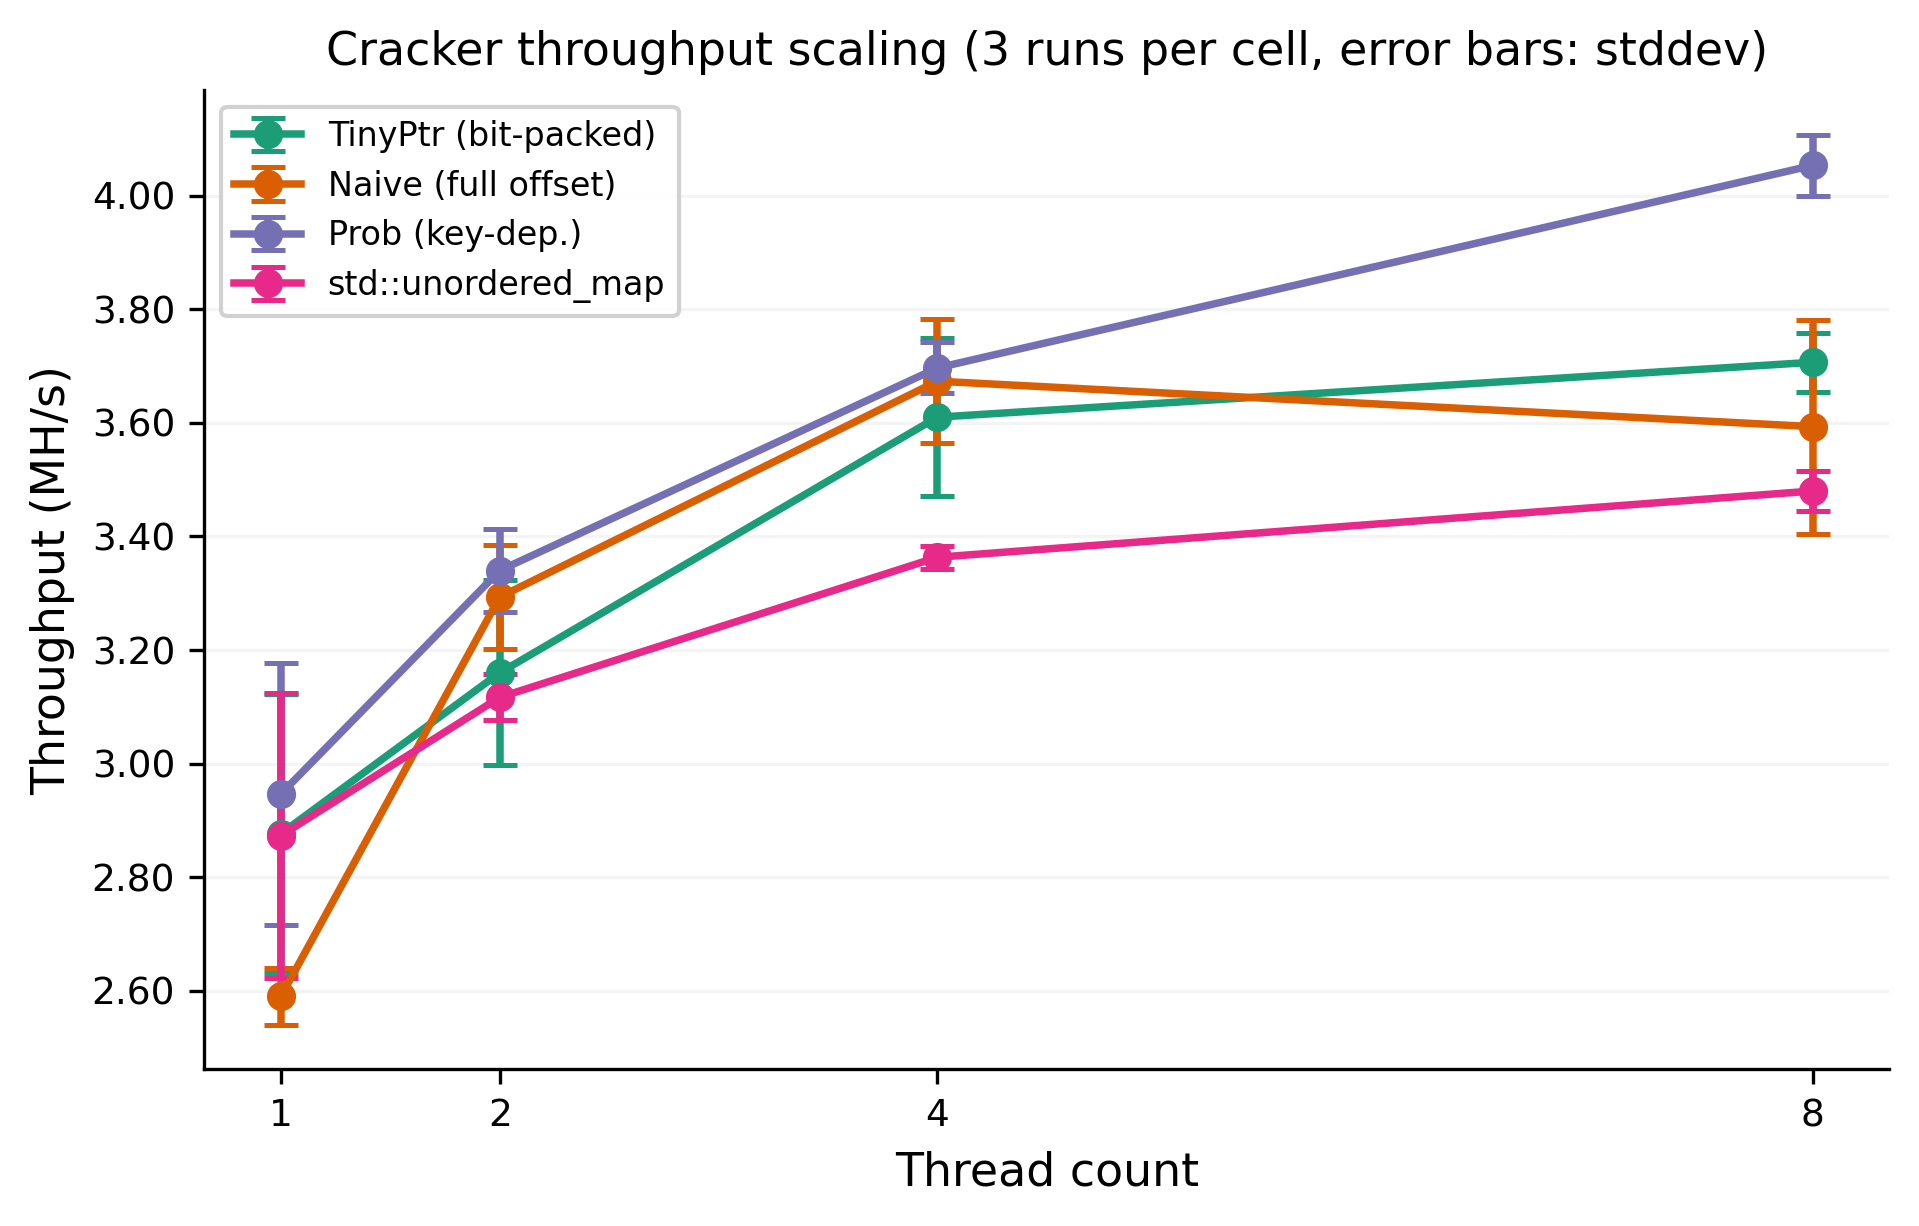
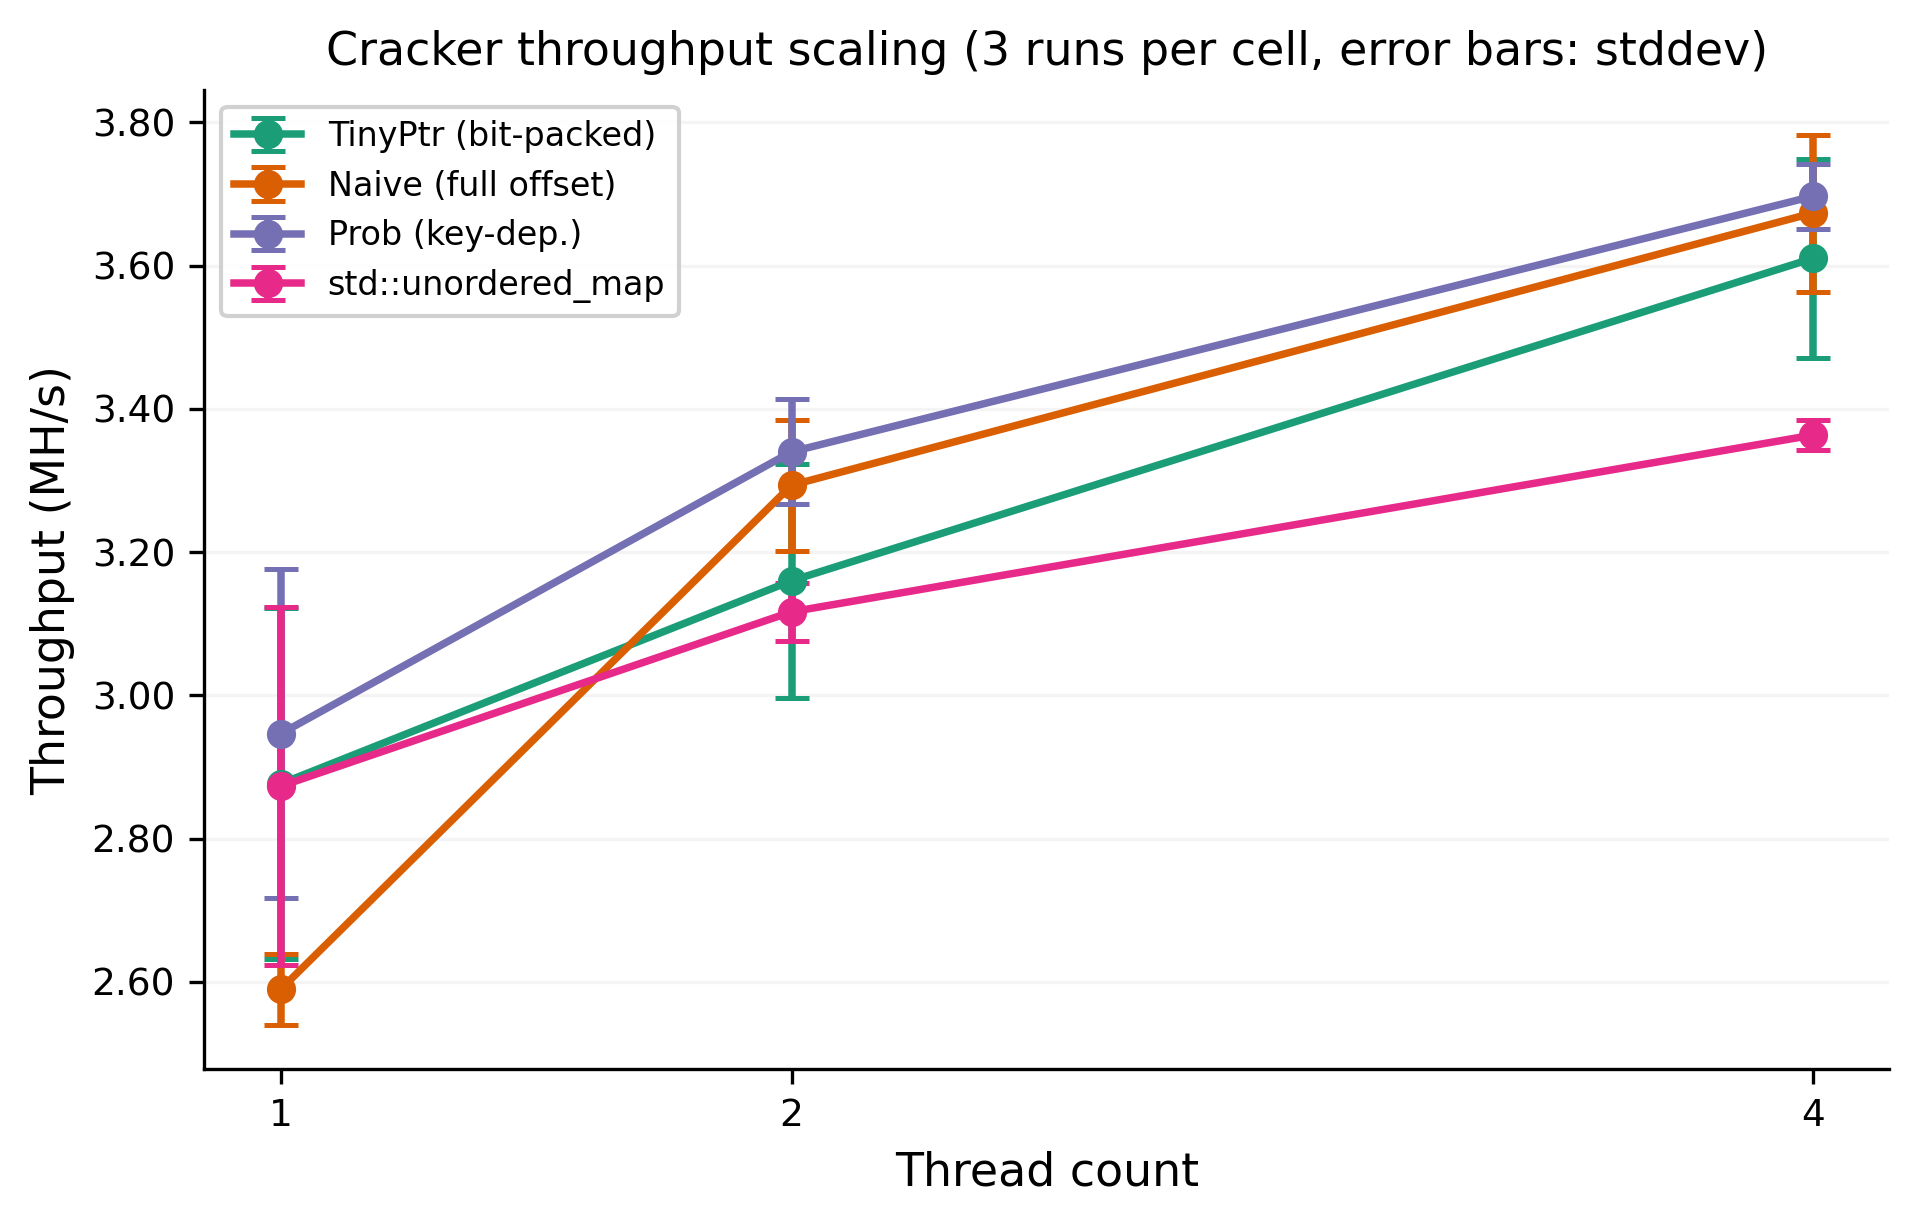
drop 8t column from fig6 and table 6
test machine has 2 cores with hyperthreading, so 4 software threads
already fills every hardware context. the 8 thread numbers were
just OS scheduling noise on top of an already saturated machine,
not real scaling data. removed from the plot and table, reworded
section 6.6 to top out at 4 threads, fixed conclusion 4 to read
3.4 to 3.7 MH/s instead of the old 3.6 to 4.1 range that included
the bogus 8t point.

diff --git a/src/python/plot_benchmarks.py b/src/python/plot_benchmarks.py
@@ -467,7 +467,9 @@ save(fig, "fig5_latency_percentiles")
 # ---------------------------------------------------------------------------
 
 fig, ax = plt.subplots(figsize=(6.5, 4.2))
-threads = [1, 2, 4, 8]
+# 2-core / 4-HT test machine; 8 threads (collected during dev) is omitted
+# because it software-oversubscribes the hardware contexts.
+threads = [1, 2, 4]
 
 for impl, label in zip(IMPLS, LEG_LABELS):
     mhs_mean = [np.mean(cracker[impl][t]) for t in threads]

diff --git a/docs/write_up.md b/docs/write_up.md
@@ -222,18 +222,18 @@ Table 4 reports RDTSC percentile latency for the miss workload. At p50 all three
 
 ### 6.6 Thread Scaling
 
-Figure 6 shows cracker throughput in MH/s as thread count increases from 1 to 8. All implementations exhibit sub-linear scaling: TinyPtr goes from 2.88 MH/s at 1 thread to 3.61 MH/s at 4 threads (1.25x speedup) and 3.71 MH/s at 8 threads. The machine has 2 physical cores with 2 hyperthreads each (4 hardware threads total), so 4 threads already fully populates the hardware contexts and 8 threads oversubscribes them. The flat region from 4 to 8 threads reflects this saturation combined with shared-L3 contention: adding threads increases parallelism but also increases the aggregate LLC miss rate as multiple threads compete for the 6 MB L3 cache.
+Figure 6 shows cracker throughput in MH/s as thread count increases from 1 to 4 (the test machine has 2 physical cores with 2 hyperthreads each, so 4 software threads exactly populates the hardware contexts; we omit a separate 8-thread measurement that would only software-oversubscribe). All implementations exhibit sub-linear scaling: TinyPtr goes from 2.88 MH/s at 1 thread to 3.61 MH/s at 4 threads, a 1.25x speedup. Adding threads increases parallelism but also raises the aggregate LLC miss rate as multiple threads contend for the shared 6 MB L3 cache, so the per-thread efficiency falls off well before the hardware contexts are filled.
 
-At 4 threads (the point where every hardware context is exactly populated) all three custom implementations cluster tightly between 3.61 and 3.70 MH/s, while StdMap trails at 3.36 MH/s. The 8-thread column oversubscribes the 4 hardware contexts, so its values reflect a combination of memory-stall hiding (the OS can schedule a different software thread while one is waiting on a cache line) and context-switch overhead. The differences in the 8-thread column are within the run-to-run variance for 3 reps and should not be over-interpreted: the headline result is that all four implementations saturate near 3.4-4.0 MH/s once the hardware contexts are full.
+At 4 threads all three custom implementations cluster tightly between 3.61 and 3.70 MH/s; StdMap trails at 3.36 MH/s. The headline result is that all four designs saturate near 3.4-3.7 MH/s once every hardware context is occupied, with the L3 cache (not the cores) as the binding constraint.
 
 **Table 6: Cracker Throughput, Mean MH/s (stddev), 3 runs per cell**
 
-| Implementation | 1 thread | 2 threads | 4 threads | 8 threads |
-|---|---|---|---|---|
-| TinyPtr | 2.88 +/- 0.29 | 3.16 +/- 0.20 | 3.61 +/- 0.17 | 3.71 +/- 0.06 |
-| Naive | 2.59 +/- 0.06 | 3.29 +/- 0.11 | 3.67 +/- 0.13 | 3.59 +/- 0.22 |
-| Prob | 2.95 +/- 0.27 | 3.34 +/- 0.09 | 3.70 +/- 0.06 | 4.05 +/- 0.06 |
-| std::unordered_map | 2.87 +/- 0.28 | 3.12 +/- 0.05 | 3.36 +/- 0.03 | 3.48 +/- 0.04 |
+| Implementation | 1 thread | 2 threads | 4 threads |
+|---|---|---|---|
+| TinyPtr | 2.88 +/- 0.29 | 3.16 +/- 0.20 | 3.61 +/- 0.17 |
+| Naive | 2.59 +/- 0.06 | 3.29 +/- 0.11 | 3.67 +/- 0.13 |
+| Prob | 2.95 +/- 0.27 | 3.34 +/- 0.09 | 3.70 +/- 0.06 |
+| std::unordered_map | 2.87 +/- 0.28 | 3.12 +/- 0.05 | 3.36 +/- 0.03 |
 
 ![Figure 6: Cracker throughput scaling](../results/figures/fig6_thread_scaling.png)
 
@@ -306,7 +306,7 @@ We implemented and compared four hash table designs for a multithreaded dictiona
 
 3. The probabilistic DEREFERENCE implementation achieves 6-bit key-dependent pointers and matches both the miss-phase cache behavior (~5.3 LLC misses per lookup) and the parallel-cracker lookup throughput of the other custom designs (within 0.15 s at 4 threads). Its 1.25x end-to-end slowdown is in table-construction time: the two-level allocator and 1.76x larger pool take ~2.4 s longer to populate than TinyPtr's simple linear-probing table.
 
-4. Thread scaling is sub-linear across all designs, saturating at approximately 3.6-4.1 MH/s on a 2-core / 4-thread machine at 4-8 threads, reflecting full utilization of the hardware contexts combined with memory bandwidth saturation.
+4. Thread scaling is sub-linear across all designs, saturating at approximately 3.4-3.7 MH/s once the 2-core / 4-thread machine's hardware contexts are fully populated; the shared L3 cache becomes the binding constraint before the cores do.
 
 5. At the p99.9 percentile, Prob's two-level scheme provides tighter tail latency (572 ns) than TinyPtr's flat linear-probing design (1873 ns), at the cost of higher hit-path latency (33.4 vs 13.9 ns) and 1.76x memory usage. Mean miss latency is essentially tied across all three custom designs.
 